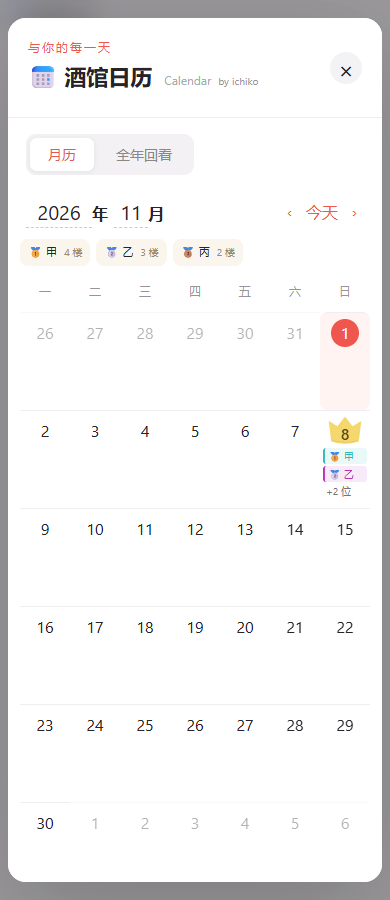
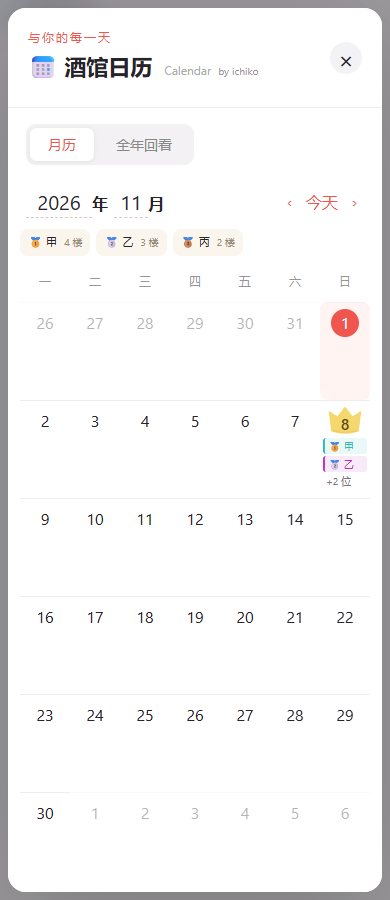
Isolate calendar positioning in top layer and follow visible viewport

diff --git a/index.js b/index.js
@@ -152,8 +152,14 @@
      root.querySelectorAll('.tc-tabs button').forEach(b=>b.disabled=true);
    }
  }
- function close(){document.querySelector('#tcal')?.remove();lastFocus?.focus();}
- function open(){if(document.querySelector('#tcal'))return;lastFocus=document.activeElement;const root=document.createElement('div');root.id='tcal';document.body.append(root);root.addEventListener('click',e=>{if(e.target===root){close();return;}const b=e.target.closest('button');if(!b)return;if(b.dataset.day){selected=b.dataset.day;month=new Date(selected+'T12:00:00');month.setDate(1);render();return;}switch(b.dataset.action){case'month-view':view='month';render();break;case'year-view':view='year';render();break;case'pick-month':month.setMonth(Number(b.dataset.month)-1);selected=key(month);view='month';render();break;case'jump':jumpToChat(b.dataset.avatar,b.dataset.file);break;case'close':close();break;case'prev':view==='year'?month.setFullYear(month.getFullYear()-1):month.setMonth(month.getMonth()-1);selected=key(month);render();break;case'next':view==='year'?month.setFullYear(month.getFullYear()+1):month.setMonth(month.getMonth()+1);selected=key(month);render();break;case'today':selected=key(new Date());month=new Date(new Date().getFullYear(),new Date().getMonth(),1);render();break;case'refresh':refresh();}});root.addEventListener('change',e=>{if(!e.target.matches('input[data-period]'))return;const n=Number(e.target.value),isYear=e.target.dataset.period==='year';if(!Number.isInteger(n)||n<(isYear?100:1)||n>(isYear?9999:12)){e.target.value=isYear?month.getFullYear():month.getMonth()+1;return;}if(isYear)month.setFullYear(n);else month.setMonth(n-1);selected=key(month);render();});root.addEventListener('keydown',e=>{if(e.key==='Enter'&&e.target.matches('input[data-period]')){e.preventDefault();e.target.blur();}if(e.key==='Escape')close();if(e.key==='Tab'){const items=[...root.querySelectorAll('button:not(:disabled),input:not(:disabled)')];if(e.shiftKey&&document.activeElement===items[0]){e.preventDefault();items.at(-1).focus();}else if(!e.shiftKey&&document.activeElement===items.at(-1)){e.preventDefault();items[0].focus();}}});render();root.querySelector('button').focus();if(!scanned)refresh();}
+ let unbindViewport;
+ function syncViewport(root){
+   const update=()=>{const v=window.visualViewport;root.style.setProperty('--tc-vh',(v?.height||window.innerHeight)+'px');root.style.setProperty('--tc-vw',(v?.width||window.innerWidth)+'px');root.style.setProperty('--tc-vtop',(v?.offsetTop||0)+'px');root.style.setProperty('--tc-vleft',(v?.offsetLeft||0)+'px');};
+   update();window.addEventListener('resize',update);window.visualViewport?.addEventListener('resize',update);window.visualViewport?.addEventListener('scroll',update);
+   unbindViewport=()=>{window.removeEventListener('resize',update);window.visualViewport?.removeEventListener('resize',update);window.visualViewport?.removeEventListener('scroll',update);};
+ }
+ function close(){unbindViewport?.();unbindViewport=null;const root=document.querySelector('#tcal');if(root?.open)root.close();root?.remove();lastFocus?.focus({preventScroll:true});}
+ function open(){if(document.querySelector('#tcal'))return;lastFocus=document.activeElement;const root=document.createElement('dialog');root.id='tcal';root.setAttribute('aria-label','📅 酒馆日历');document.documentElement.append(root);syncViewport(root);if(typeof root.showModal==='function')root.showModal();else root.setAttribute('open','');root.addEventListener('cancel',e=>{e.preventDefault();close();});root.addEventListener('click',e=>{if(e.target===root){close();return;}const b=e.target.closest('button');if(!b)return;if(b.dataset.day){selected=b.dataset.day;month=new Date(selected+'T12:00:00');month.setDate(1);render();return;}switch(b.dataset.action){case'month-view':view='month';render();break;case'year-view':view='year';render();break;case'pick-month':month.setMonth(Number(b.dataset.month)-1);selected=key(month);view='month';render();break;case'jump':jumpToChat(b.dataset.avatar,b.dataset.file);break;case'close':close();break;case'prev':view==='year'?month.setFullYear(month.getFullYear()-1):month.setMonth(month.getMonth()-1);selected=key(month);render();break;case'next':view==='year'?month.setFullYear(month.getFullYear()+1):month.setMonth(month.getMonth()+1);selected=key(month);render();break;case'today':selected=key(new Date());month=new Date(new Date().getFullYear(),new Date().getMonth(),1);render();break;case'refresh':refresh();}});root.addEventListener('change',e=>{if(!e.target.matches('input[data-period]'))return;const n=Number(e.target.value),isYear=e.target.dataset.period==='year';if(!Number.isInteger(n)||n<(isYear?100:1)||n>(isYear?9999:12)){e.target.value=isYear?month.getFullYear():month.getMonth()+1;return;}if(isYear)month.setFullYear(n);else month.setMonth(n-1);selected=key(month);render();});root.addEventListener('keydown',e=>{if(e.key==='Enter'&&e.target.matches('input[data-period]')){e.preventDefault();e.target.blur();}if(e.key==='Escape')close();if(e.key==='Tab'){const items=[...root.querySelectorAll('button:not(:disabled),input:not(:disabled)')];if(e.shiftKey&&document.activeElement===items[0]){e.preventDefault();items.at(-1).focus();}else if(!e.shiftKey&&document.activeElement===items.at(-1)){e.preventDefault();items[0].focus();}}});render();root.querySelector('button').focus({preventScroll:true});if(!scanned)refresh();}
  function mount(){
    const host=document.querySelector('#extensionsMenu')||document.querySelector('#extensions_menu');
    if(host&&!document.querySelector('#tcal-launch')){

diff --git a/style.css b/style.css
@@ -70,3 +70,8 @@
 #tcal nav{flex-wrap:wrap;row-gap:10px}
 #tcal nav>div{flex-shrink:0}
 @media(max-width:700px){#tcal .tc-shell{max-height:calc(100vh - 16px);max-height:calc(100dvh - 16px)}#tcal footer{flex-wrap:wrap}#tcal footer>span{overflow-wrap:anywhere}}
+/* Native top-layer dialog: independent of ST theme/body positioning. */
+#tcal{box-sizing:border-box;position:fixed;inset:auto;top:var(--tc-vtop,0px);left:var(--tc-vleft,0px);width:var(--tc-vw,100vw);height:var(--tc-vh,100vh);max-width:none;max-height:none;min-width:0;min-height:0;margin:0;border:0;transform:none;translate:none;scale:none;rotate:none;animation:none}
+#tcal::backdrop{background:transparent}
+#tcal .tc-shell{position:relative;inset:auto;transform:none;translate:none;scale:none;rotate:none;animation:none;margin:0;min-height:0;flex:0 1 1040px;max-height:calc(var(--tc-vh,100vh) - 48px)}
+@media(max-width:700px){#tcal .tc-shell{max-height:calc(var(--tc-vh,100vh) - 16px)}}
